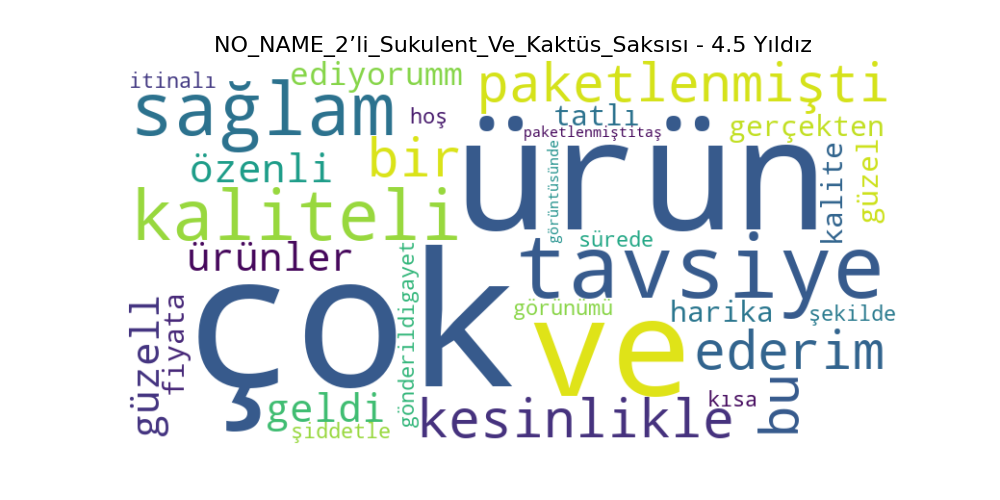
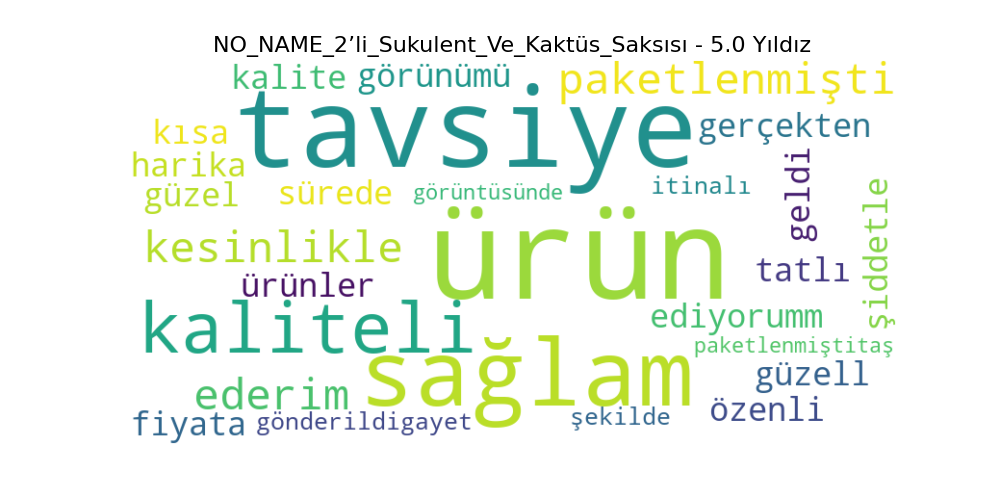
Kodlar güncellendi

Changed region(s): [[0.124, 0.06, 0.899, 0.9]]

diff --git a/wordCloudWeights.py b/wordCloudWeights.py
@@ -51,9 +51,42 @@ turkish_stopwords = ['a', 'acaba', 'acep', 'adamakıllı', 'adeta', 'ait', 'altm
 
 # Özel kelime listesi ve ağırlıkları
 kelime_agirliklari = {
-    "mükemmel": 2.0, "harika": 1.8, "kaliteli": 1.5, "güzel": 1.0, "iyi": 0.8,"memnun":1.5,"beğendim":1.5,
-    "kötü": -1.5, "berbat": -2.0, "hasarlı": -1.8, "geç": -1.2, "iade": -1.5
+    # Pozitif kelimeler
+    "mükemmel": 2.0, "harika": 1.8, "kaliteli": 1.5, "güzel": 1.0, "iyi": 0.8,
+    "kusursuz": 2.0, "olumlu": 1.7, "memnun": 1.5, "keyifli": 1.4, "uygun": 1.2,
+    "faydalı": 1.6, "beğendim": 1.5, "hızlı": 1.4, "şık": 1.3, "müthiş": 1.9,
+    "özenli": 1.6, "rahat": 1.4, "başarılı": 1.8, "düzgün": 1.2, "dostane": 1.3,
+    "etkileyici": 1.9, "iyi iş": 1.7, "mükemmel hizmet": 2.0, "uyumlu": 1.2,
+    "dayanıklı": 1.5, "mutlu": 1.8, "kalite": 1.6, "kolay": 1.2, "konforlu": 1.4,
+    "zarif": 1.5, "kibar": 1.3, "teşekkür ederim": 1.6, "tatlı": 1.4,
+    "çok teşekkürler": 1.7, "bayıldım": 1.9, "tavsiye ederim": 1.8,
+    "kullanışlı": 1.6, "şık duruyor": 1.5, "zarif duruyor": 1.5,
+    "beğendi": 1.4, "ürün güzel": 1.6, "harika güzeldi": 1.8,
+    "hızlı sağlam": 1.7, "güzel alın": 1.5, "naif": 1.3, "sorunsuz": 1.4,
+    "almıştım beğendi": 1.4, "severek kullanıyorum": 1.6, "aldım uygun": 1.3,
+    "beğendik": 1.4, "mükemmel sevdim": 2.0, "duruyor": 1.0,
+    "elime ulaştı": 1.4, "fiyat performans": 1.6, "alabilirsiniz": 1.5,
+    "özenli göründüğü": 1.6, "geldi rahat": 1.4, "duruşu tatlı": 1.5,
+    "aynısı beğendi": 1.5, "ideal": 1.3, "begendim": 1.4,
+    "kendime alacağım": 1.6, "severek kullanıyor": 1.7, "alın aldırın": 1.5,
+    "ulaştı elime": 1.4, "hızlı ulaştı": 1.5, "kargo hızlıydı": 1.5,
+    "aldım beğenildi": 1.6, "özenle parça": 1.5, "güzell": 1.4,
+    "severek çalışıyor": 1.5, "bayıldımmm": 2.0, "inanılmaz": 1.9,
+    "tavsiye ediyorum": 1.9, "ulaştı öneririm": 1.6, "narin": 1.5,
+    "iyiydi": 1.4, "kalitesi": 1.6, "beyendim": 1.4,
+    "bayıldımmmm": 2.0, "memnun kaldım": 1.7, "almanızı tavsiye": 1.9,
+    "hızlı teslimat": 1.6, "hoşuma gitti": 1.5, "hizli": 1.4, "bayıldımm": 2.0,
+
+    # Negatif kelimeler
+    "kötü": -1.5, "berbat": -2.0, "hasarlı": -1.8, "geç": -1.2, "iade": -1.5,
+    "bozuk": -1.7, "dikkatsiz": -1.4, "uygunsuz": -1.6, "kırık": -1.8, "problemli": -1.5,
+    "yanlış": -1.3, "eksik": -1.7, "yavaş": -1.4, "kalitesiz": -1.8, "hayal kırıklığı": -2.0,
+    "korkunç": -2.0, "fiyasko": -2.0, "sinir bozucu": -1.8, "beğenmedim": -1.5, "rahatsız": -1.4,
+    "yetersiz": -1.6, "gereksiz": -1.3, "saygısız": -1.9, "memnuniyetsiz": -1.8, "kaba": -1.5,
+    "rezalet": -2.0, "pişmanlık": -1.7, "kaos": -1.9, "uygunsuzluk": -1.5, "zorlayıcı": -1.2,
+    "güvensiz": -1.8, "hüsran": -1.9, "yıkık": -1.7, "çirkin": -1.6, "kullanışsız": -1.8
 }
+
 
 # Yıldız hesaplama fonksiyonu
 def hesapla_yildiz(toplam_skor):
